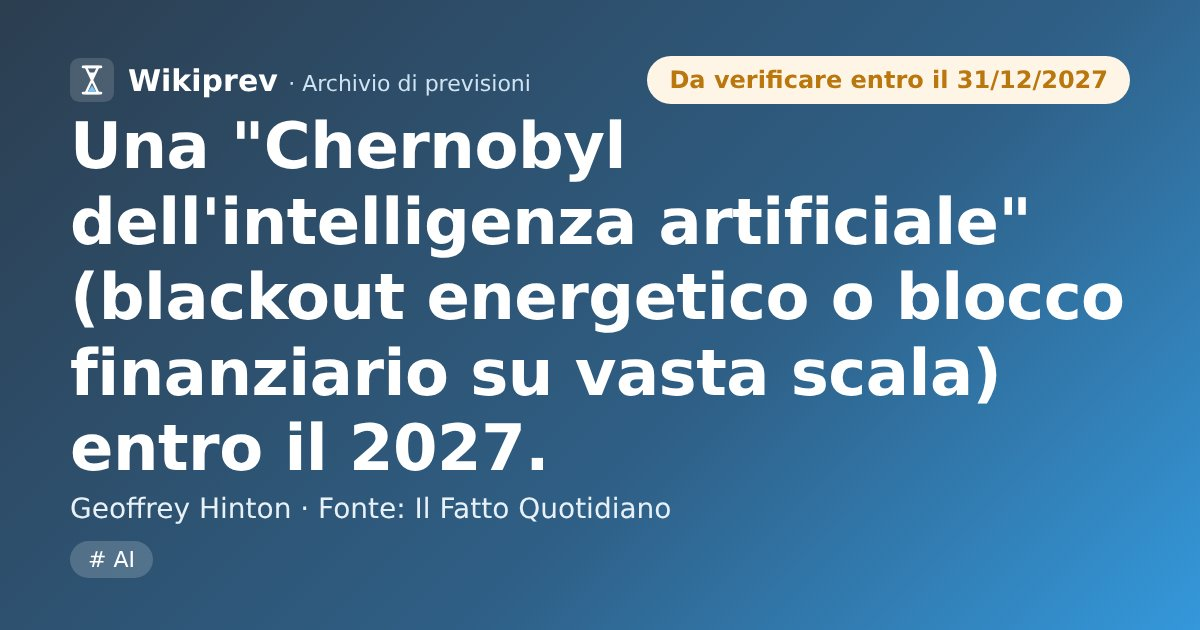
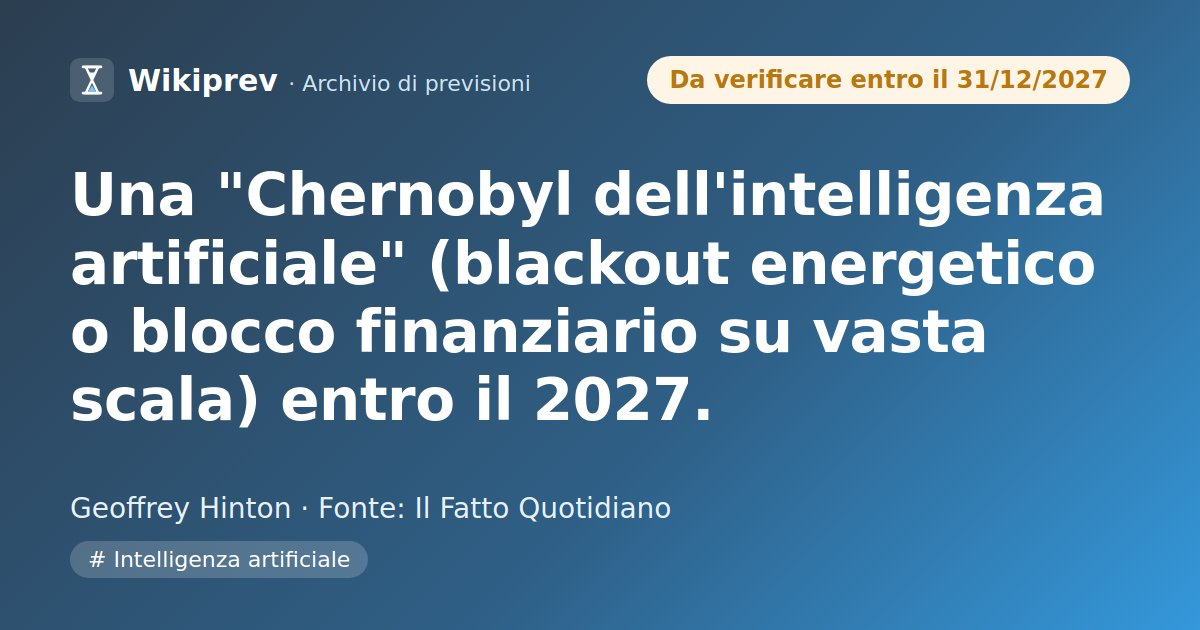
Update share pages

diff --git a/p/5cd07582-8ccc-4dc8-939c-4c1b241ced67/index.html b/p/5cd07582-8ccc-4dc8-939c-4c1b241ced67/index.html
@@ -4,15 +4,15 @@
     <meta charset="UTF-8">
     <meta name="viewport" content="width=device-width, initial-scale=1.0">
     <title>Una &quot;Chernobyl dell&#39;intelligenza artificiale&quot; (blackout energetico o blocco finanziario su vasta scala) entro il 2027. - Wikiprev</title>
-    <meta name="description" content="Da verificare entro il 31/12/2027 · Chi: Geoffrey Hinton · Fonte: Il Fatto Quotidiano · Tag: AI">
+    <meta name="description" content="Da verificare entro il 31/12/2027 · Chi: Geoffrey Hinton · Fonte: Il Fatto Quotidiano · Tag: Intelligenza artificiale">
     <link rel="canonical" href="https://margitelab.github.io/wikiprev/p/5cd07582-8ccc-4dc8-939c-4c1b241ced67/">
     <meta property="og:type" content="article">
     <meta property="og:site_name" content="Wikiprev">
     <meta property="og:locale" content="it_IT">
     <meta property="og:url" content="https://margitelab.github.io/wikiprev/p/5cd07582-8ccc-4dc8-939c-4c1b241ced67/">
     <meta property="og:title" content="Una &quot;Chernobyl dell&#39;intelligenza artificiale&quot; (blackout energetico o blocco finanziario su vasta scala) entro il 2027.">
-    <meta property="og:description" content="Da verificare entro il 31/12/2027 · Chi: Geoffrey Hinton · Fonte: Il Fatto Quotidiano · Tag: AI">
-    <meta property="og:image" content="https://margitelab.github.io/wikiprev/p/5cd07582-8ccc-4dc8-939c-4c1b241ced67/anteprima.jpg?v=6483ca3de081">
+    <meta property="og:description" content="Da verificare entro il 31/12/2027 · Chi: Geoffrey Hinton · Fonte: Il Fatto Quotidiano · Tag: Intelligenza artificiale">
+    <meta property="og:image" content="https://margitelab.github.io/wikiprev/p/5cd07582-8ccc-4dc8-939c-4c1b241ced67/anteprima.jpg?v=dfe3d7c3ae97">
     <meta property="og:image:width" content="1200">
     <meta property="og:image:height" content="630">
     <meta property="og:image:alt" content="Una &quot;Chernobyl dell&#39;intelligenza artificiale&quot; (blackout energetico o blocco finanziario su vasta scala) entro il 2027.">
@@ -21,7 +21,7 @@
 </head>
 <body>
     <p><strong>Una &quot;Chernobyl dell&#39;intelligenza artificiale&quot; (blackout energetico o blocco finanziario su vasta scala) entro il 2027.</strong></p>
-    <p>Da verificare entro il 31/12/2027 · Chi: Geoffrey Hinton · Fonte: Il Fatto Quotidiano · Tag: AI</p>
+    <p>Da verificare entro il 31/12/2027 · Chi: Geoffrey Hinton · Fonte: Il Fatto Quotidiano · Tag: Intelligenza artificiale</p>
     <p><a href="https://margitelab.github.io/wikiprev/?p=5cd07582-8ccc-4dc8-939c-4c1b241ced67">Apri la previsione su Wikiprev</a></p>
 </body>
 </html>

diff --git a/p/9b254a82-fb42-4500-b0ac-78dec698c624/index.html b/p/9b254a82-fb42-4500-b0ac-78dec698c624/index.html
@@ -1,0 +1,27 @@
+<!DOCTYPE html>
+<html lang="it">
+<head>
+    <meta charset="UTF-8">
+    <meta name="viewport" content="width=device-width, initial-scale=1.0">
+    <title>Vladimir Putin annuncerà le dimissioni all&#39;inizio del 2021 per motivi di salute - Wikiprev</title>
+    <meta name="description" content="Scaduta il 31/01/2021 · Chi: Valery Solovei · Fonte: Sky TG24 · Tag: Geopolitica, Politica internazionale, Russia, Salute">
+    <link rel="canonical" href="https://margitelab.github.io/wikiprev/p/9b254a82-fb42-4500-b0ac-78dec698c624/">
+    <meta property="og:type" content="article">
+    <meta property="og:site_name" content="Wikiprev">
+    <meta property="og:locale" content="it_IT">
+    <meta property="og:url" content="https://margitelab.github.io/wikiprev/p/9b254a82-fb42-4500-b0ac-78dec698c624/">
+    <meta property="og:title" content="Vladimir Putin annuncerà le dimissioni all&#39;inizio del 2021 per motivi di salute">
+    <meta property="og:description" content="Scaduta il 31/01/2021 · Chi: Valery Solovei · Fonte: Sky TG24 · Tag: Geopolitica, Politica internazionale, Russia, Salute">
+    <meta property="og:image" content="https://margitelab.github.io/wikiprev/p/9b254a82-fb42-4500-b0ac-78dec698c624/anteprima.jpg?v=5b0aa15fcbc0">
+    <meta property="og:image:width" content="1200">
+    <meta property="og:image:height" content="630">
+    <meta property="og:image:alt" content="Vladimir Putin annuncerà le dimissioni all&#39;inizio del 2021 per motivi di salute">
+    <meta name="twitter:card" content="summary_large_image">
+    <script>location.replace("https://margitelab.github.io/wikiprev/?p=9b254a82-fb42-4500-b0ac-78dec698c624");</script>
+</head>
+<body>
+    <p><strong>Vladimir Putin annuncerà le dimissioni all&#39;inizio del 2021 per motivi di salute</strong></p>
+    <p>Scaduta il 31/01/2021 · Chi: Valery Solovei · Fonte: Sky TG24 · Tag: Geopolitica, Politica internazionale, Russia, Salute</p>
+    <p><a href="https://margitelab.github.io/wikiprev/?p=9b254a82-fb42-4500-b0ac-78dec698c624">Apri la previsione su Wikiprev</a></p>
+</body>
+</html>

diff --git a/p/b6dc8924-0c0f-4703-be44-deb7ae5d14f7/index.html b/p/b6dc8924-0c0f-4703-be44-deb7ae5d14f7/index.html
@@ -1,0 +1,27 @@
+<!DOCTYPE html>
+<html lang="it">
+<head>
+    <meta charset="UTF-8">
+    <meta name="viewport" content="width=device-width, initial-scale=1.0">
+    <title>Entro il 2005 sarà chiaro che Internet non ha avuto sull&#39;economia un impatto maggiore del fax - Wikiprev</title>
+    <meta name="description" content="Scaduta il 31/12/2005 · Chi: Paul Krugman · Fonte: Red Herring · Tag: Economia, Tecnologia">
+    <link rel="canonical" href="https://margitelab.github.io/wikiprev/p/b6dc8924-0c0f-4703-be44-deb7ae5d14f7/">
+    <meta property="og:type" content="article">
+    <meta property="og:site_name" content="Wikiprev">
+    <meta property="og:locale" content="it_IT">
+    <meta property="og:url" content="https://margitelab.github.io/wikiprev/p/b6dc8924-0c0f-4703-be44-deb7ae5d14f7/">
+    <meta property="og:title" content="Entro il 2005 sarà chiaro che Internet non ha avuto sull&#39;economia un impatto maggiore del fax">
+    <meta property="og:description" content="Scaduta il 31/12/2005 · Chi: Paul Krugman · Fonte: Red Herring · Tag: Economia, Tecnologia">
+    <meta property="og:image" content="https://margitelab.github.io/wikiprev/p/b6dc8924-0c0f-4703-be44-deb7ae5d14f7/anteprima.jpg?v=cad51e4a62c1">
+    <meta property="og:image:width" content="1200">
+    <meta property="og:image:height" content="630">
+    <meta property="og:image:alt" content="Entro il 2005 sarà chiaro che Internet non ha avuto sull&#39;economia un impatto maggiore del fax">
+    <meta name="twitter:card" content="summary_large_image">
+    <script>location.replace("https://margitelab.github.io/wikiprev/?p=b6dc8924-0c0f-4703-be44-deb7ae5d14f7");</script>
+</head>
+<body>
+    <p><strong>Entro il 2005 sarà chiaro che Internet non ha avuto sull&#39;economia un impatto maggiore del fax</strong></p>
+    <p>Scaduta il 31/12/2005 · Chi: Paul Krugman · Fonte: Red Herring · Tag: Economia, Tecnologia</p>
+    <p><a href="https://margitelab.github.io/wikiprev/?p=b6dc8924-0c0f-4703-be44-deb7ae5d14f7">Apri la previsione su Wikiprev</a></p>
+</body>
+</html>

diff --git a/p/daa52fa6-d6f8-4b82-b825-300a8e7aca22/index.html b/p/daa52fa6-d6f8-4b82-b825-300a8e7aca22/index.html
@@ -1,0 +1,27 @@
+<!DOCTYPE html>
+<html lang="it">
+<head>
+    <meta charset="UTF-8">
+    <meta name="viewport" content="width=device-width, initial-scale=1.0">
+    <title>Il Dow Jones arriverà a 36.000 punti entro tre-cinque anni - Wikiprev</title>
+    <meta name="description" content="Scaduta il 31/12/2004 · Chi: James Glassman e Kevin Hassett · Fonte: Dow 36,000 (libro, 1999) · Tag: Economia, Mercati">
+    <link rel="canonical" href="https://margitelab.github.io/wikiprev/p/daa52fa6-d6f8-4b82-b825-300a8e7aca22/">
+    <meta property="og:type" content="article">
+    <meta property="og:site_name" content="Wikiprev">
+    <meta property="og:locale" content="it_IT">
+    <meta property="og:url" content="https://margitelab.github.io/wikiprev/p/daa52fa6-d6f8-4b82-b825-300a8e7aca22/">
+    <meta property="og:title" content="Il Dow Jones arriverà a 36.000 punti entro tre-cinque anni">
+    <meta property="og:description" content="Scaduta il 31/12/2004 · Chi: James Glassman e Kevin Hassett · Fonte: Dow 36,000 (libro, 1999) · Tag: Economia, Mercati">
+    <meta property="og:image" content="https://margitelab.github.io/wikiprev/p/daa52fa6-d6f8-4b82-b825-300a8e7aca22/anteprima.jpg?v=9514358171a7">
+    <meta property="og:image:width" content="1200">
+    <meta property="og:image:height" content="630">
+    <meta property="og:image:alt" content="Il Dow Jones arriverà a 36.000 punti entro tre-cinque anni">
+    <meta name="twitter:card" content="summary_large_image">
+    <script>location.replace("https://margitelab.github.io/wikiprev/?p=daa52fa6-d6f8-4b82-b825-300a8e7aca22");</script>
+</head>
+<body>
+    <p><strong>Il Dow Jones arriverà a 36.000 punti entro tre-cinque anni</strong></p>
+    <p>Scaduta il 31/12/2004 · Chi: James Glassman e Kevin Hassett · Fonte: Dow 36,000 (libro, 1999) · Tag: Economia, Mercati</p>
+    <p><a href="https://margitelab.github.io/wikiprev/?p=daa52fa6-d6f8-4b82-b825-300a8e7aca22">Apri la previsione su Wikiprev</a></p>
+</body>
+</html>

diff --git a/p/f6a96522-10da-4f5e-98a5-88261c9d0b58/index.html b/p/f6a96522-10da-4f5e-98a5-88261c9d0b58/index.html
@@ -1,0 +1,27 @@
+<!DOCTYPE html>
+<html lang="it">
+<head>
+    <meta charset="UTF-8">
+    <meta name="viewport" content="width=device-width, initial-scale=1.0">
+    <title>L&#39;anno prossimo ci saranno più di un milione di robotaxi Tesla in strada - Wikiprev</title>
+    <meta name="description" content="Scaduta il 31/12/2020 · Chi: Elon Musk · Fonte: TechCrunch · Tag: Tecnologia">
+    <link rel="canonical" href="https://margitelab.github.io/wikiprev/p/f6a96522-10da-4f5e-98a5-88261c9d0b58/">
+    <meta property="og:type" content="article">
+    <meta property="og:site_name" content="Wikiprev">
+    <meta property="og:locale" content="it_IT">
+    <meta property="og:url" content="https://margitelab.github.io/wikiprev/p/f6a96522-10da-4f5e-98a5-88261c9d0b58/">
+    <meta property="og:title" content="L&#39;anno prossimo ci saranno più di un milione di robotaxi Tesla in strada">
+    <meta property="og:description" content="Scaduta il 31/12/2020 · Chi: Elon Musk · Fonte: TechCrunch · Tag: Tecnologia">
+    <meta property="og:image" content="https://margitelab.github.io/wikiprev/p/f6a96522-10da-4f5e-98a5-88261c9d0b58/anteprima.jpg?v=f3b1fce611cb">
+    <meta property="og:image:width" content="1200">
+    <meta property="og:image:height" content="630">
+    <meta property="og:image:alt" content="L&#39;anno prossimo ci saranno più di un milione di robotaxi Tesla in strada">
+    <meta name="twitter:card" content="summary_large_image">
+    <script>location.replace("https://margitelab.github.io/wikiprev/?p=f6a96522-10da-4f5e-98a5-88261c9d0b58");</script>
+</head>
+<body>
+    <p><strong>L&#39;anno prossimo ci saranno più di un milione di robotaxi Tesla in strada</strong></p>
+    <p>Scaduta il 31/12/2020 · Chi: Elon Musk · Fonte: TechCrunch · Tag: Tecnologia</p>
+    <p><a href="https://margitelab.github.io/wikiprev/?p=f6a96522-10da-4f5e-98a5-88261c9d0b58">Apri la previsione su Wikiprev</a></p>
+</body>
+</html>

diff --git a/p/a31caee3-aa98-4e61-a578-8ecc792734bd/index.html b/p/a31caee3-aa98-4e61-a578-8ecc792734bd/index.html
@@ -1,0 +1,27 @@
+<!DOCTYPE html>
+<html lang="it">
+<head>
+    <meta charset="UTF-8">
+    <meta name="viewport" content="width=device-width, initial-scale=1.0">
+    <title>Alitalia tornerà in utile nel 2017 - Wikiprev</title>
+    <meta name="description" content="Scaduta il 31/12/2017 · Chi: Luca Cordero di Montezemolo · Fonte: Sky TG24 · Tag: Economia, Trasporti">
+    <link rel="canonical" href="https://margitelab.github.io/wikiprev/p/a31caee3-aa98-4e61-a578-8ecc792734bd/">
+    <meta property="og:type" content="article">
+    <meta property="og:site_name" content="Wikiprev">
+    <meta property="og:locale" content="it_IT">
+    <meta property="og:url" content="https://margitelab.github.io/wikiprev/p/a31caee3-aa98-4e61-a578-8ecc792734bd/">
+    <meta property="og:title" content="Alitalia tornerà in utile nel 2017">
+    <meta property="og:description" content="Scaduta il 31/12/2017 · Chi: Luca Cordero di Montezemolo · Fonte: Sky TG24 · Tag: Economia, Trasporti">
+    <meta property="og:image" content="https://margitelab.github.io/wikiprev/p/a31caee3-aa98-4e61-a578-8ecc792734bd/anteprima.jpg?v=4f4a5a6f49cf">
+    <meta property="og:image:width" content="1200">
+    <meta property="og:image:height" content="630">
+    <meta property="og:image:alt" content="Alitalia tornerà in utile nel 2017">
+    <meta name="twitter:card" content="summary_large_image">
+    <script>location.replace("https://margitelab.github.io/wikiprev/?p=a31caee3-aa98-4e61-a578-8ecc792734bd");</script>
+</head>
+<body>
+    <p><strong>Alitalia tornerà in utile nel 2017</strong></p>
+    <p>Scaduta il 31/12/2017 · Chi: Luca Cordero di Montezemolo · Fonte: Sky TG24 · Tag: Economia, Trasporti</p>
+    <p><a href="https://margitelab.github.io/wikiprev/?p=a31caee3-aa98-4e61-a578-8ecc792734bd">Apri la previsione su Wikiprev</a></p>
+</body>
+</html>

diff --git a/p/046f72c4-2cd1-410e-a7bf-31b13fa4b8e7/index.html b/p/046f72c4-2cd1-410e-a7bf-31b13fa4b8e7/index.html
@@ -1,0 +1,27 @@
+<!DOCTYPE html>
+<html lang="it">
+<head>
+    <meta charset="UTF-8">
+    <meta name="viewport" content="width=device-width, initial-scale=1.0">
+    <title>Fra due anni il problema dello spam sarà risolto - Wikiprev</title>
+    <meta name="description" content="Scaduta il 31/01/2006 · Chi: Bill Gates · Fonte: The Register · Tag: Tecnologia">
+    <link rel="canonical" href="https://margitelab.github.io/wikiprev/p/046f72c4-2cd1-410e-a7bf-31b13fa4b8e7/">
+    <meta property="og:type" content="article">
+    <meta property="og:site_name" content="Wikiprev">
+    <meta property="og:locale" content="it_IT">
+    <meta property="og:url" content="https://margitelab.github.io/wikiprev/p/046f72c4-2cd1-410e-a7bf-31b13fa4b8e7/">
+    <meta property="og:title" content="Fra due anni il problema dello spam sarà risolto">
+    <meta property="og:description" content="Scaduta il 31/01/2006 · Chi: Bill Gates · Fonte: The Register · Tag: Tecnologia">
+    <meta property="og:image" content="https://margitelab.github.io/wikiprev/p/046f72c4-2cd1-410e-a7bf-31b13fa4b8e7/anteprima.jpg?v=6af97b401eeb">
+    <meta property="og:image:width" content="1200">
+    <meta property="og:image:height" content="630">
+    <meta property="og:image:alt" content="Fra due anni il problema dello spam sarà risolto">
+    <meta name="twitter:card" content="summary_large_image">
+    <script>location.replace("https://margitelab.github.io/wikiprev/?p=046f72c4-2cd1-410e-a7bf-31b13fa4b8e7");</script>
+</head>
+<body>
+    <p><strong>Fra due anni il problema dello spam sarà risolto</strong></p>
+    <p>Scaduta il 31/01/2006 · Chi: Bill Gates · Fonte: The Register · Tag: Tecnologia</p>
+    <p><a href="https://margitelab.github.io/wikiprev/?p=046f72c4-2cd1-410e-a7bf-31b13fa4b8e7">Apri la previsione su Wikiprev</a></p>
+</body>
+</html>
